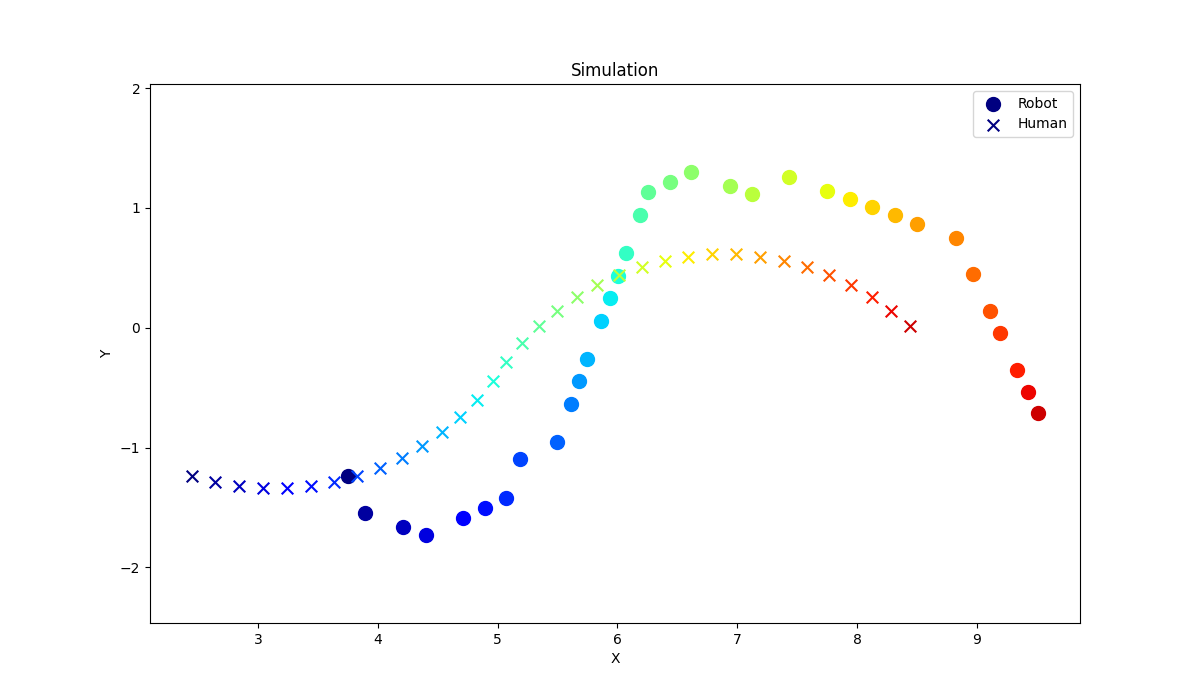
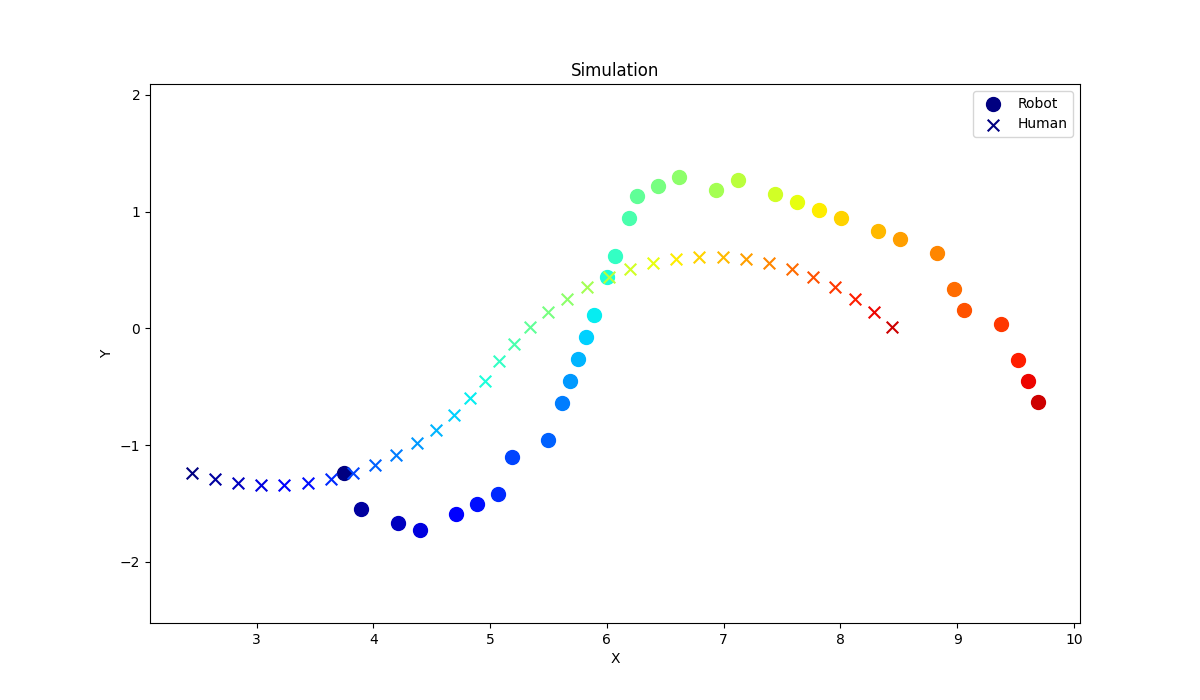
update

diff --git a/follow/scripts/search.py b/follow/scripts/search.py
@@ -55,16 +55,16 @@ class MCTS:
         
         c_param= 0.5
         prob = 1.
-        # if c.state.next_to_move == 0: 
-        #     if c.action == 'left':
-        #         prob = self.human_prob['left']
-        #     elif c.action == 'straight':
-        #         prob = self.human_prob['straight']
-        #     elif c.action == 'right':
-        #         prob = self.human_prob['right']
+        if c.state.next_to_move == 0: 
+            if c.action == 'left':
+                prob = self.human_prob['left']
+            elif c.action == 'straight':
+                prob = self.human_prob['straight']
+            elif c.action == 'right':
+                prob = self.human_prob['right']
 
-        # else:
-        #     prob = 1.      
+        else:
+            prob = 1.      
 
         UCB = (c.value/c.n) + c_param * np.sqrt((np.log(c.parent.n) / c.n))  * prob
         return UCB
